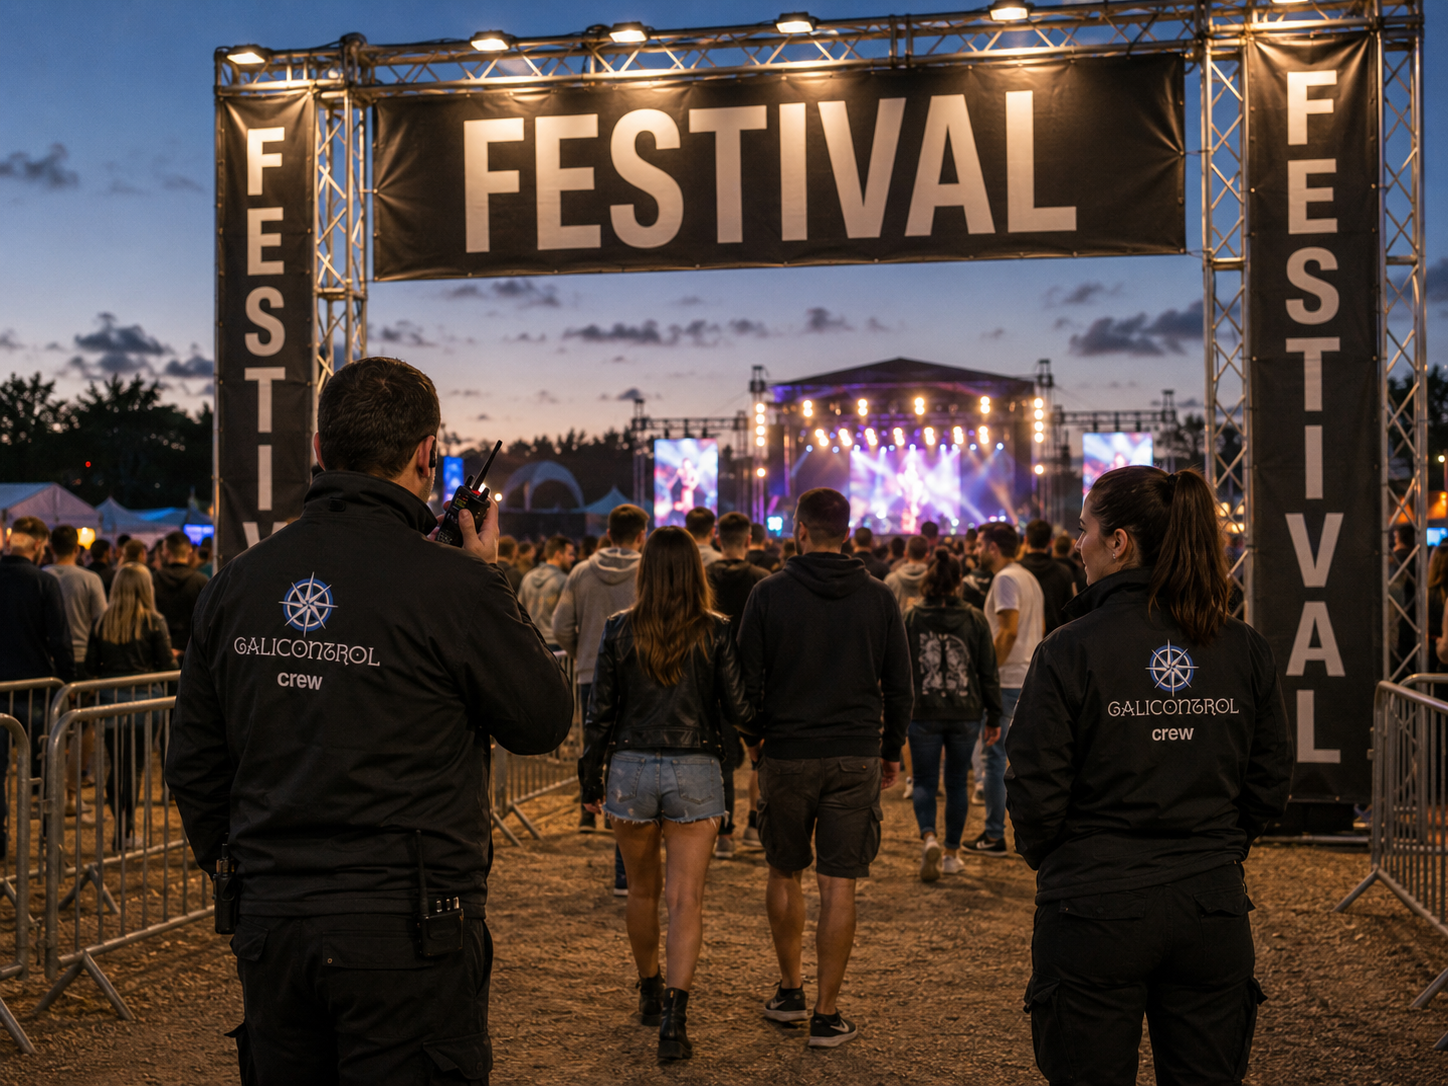
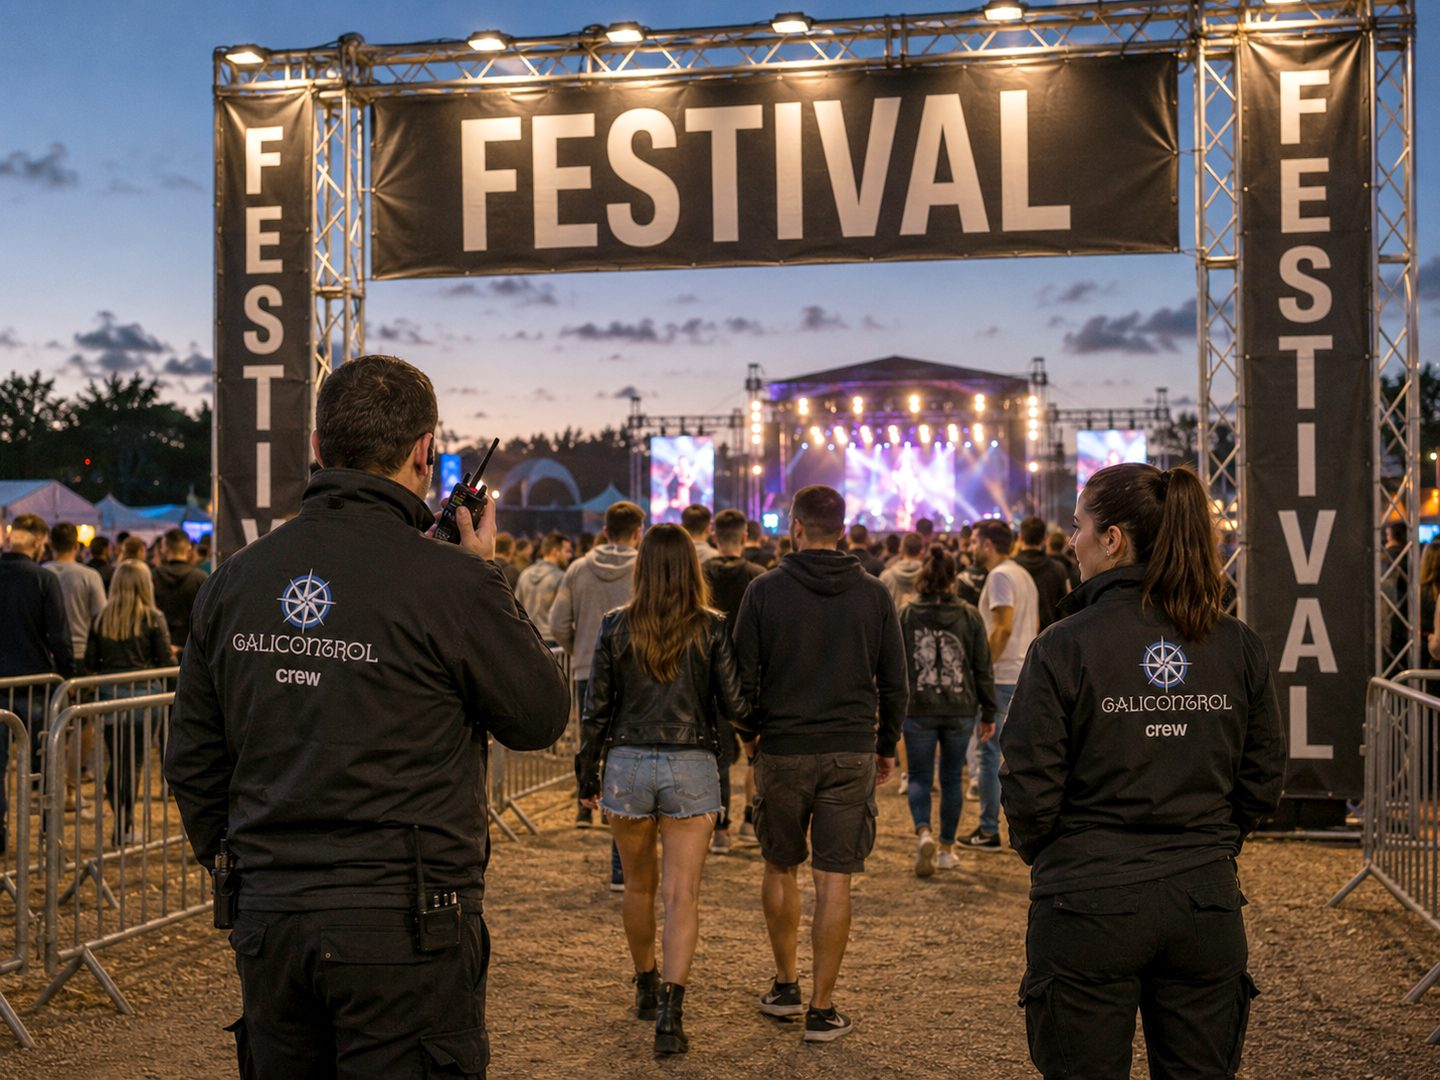
Ajustar las fotografías: recorte del texto quemado, luz y peso
- locales.jpg llevaba el titular «ESTO ES UN SÁBADO POR LA NOCHE» quemado
  dentro de la imagen, compitiendo con el H1 real de la página y sin que
  Google ni un lector de pantalla puedan leerlo. Se recorta la zona del texto
  manteniendo el rótulo del local, la cola, el portero y el cartel de
  admisión.
- Corrección de gamma para levantar sombras sin perder el ambiente nocturno,
  medida sobre la luminancia real de cada archivo: locales de 38 a 85,
  eventos de 68 a 85, home de 70 a 79 y control-accesos de 85 a 92. empresas
  ya estaba bien y se deja como estaba.
- Recompresión de las cinco: la carpeta pasa de 10 MB a 912 KB. Al visitante
  ya no le llegaba el original —Next sirve un AVIF de 19 KB—, así que esto
  solo aligera el repositorio y los despliegues.
- LEEME.md de la carpeta: se añade la advertencia de no subir imágenes con
  texto encima y los criterios de peso y luz.

Claude-Session: https://claude.ai/code/session_01E8BbFr5m9gUPfGNd7GGnMh

diff --git a/public/fotos/LEEME.md b/public/fotos/LEEME.md
@@ -12,11 +12,21 @@ que tocar ninguna línea de código.
 | `locales.jpg` | Página de Locales | Puerta de un pub, sala o discoteca con personal. |
 | `empresas.jpg` | Página de Empresas | Mostrador de recepción o acreditación en un congreso. |
 
+## Ojo: nada de texto dentro de la foto
+
+No subas imágenes con titulares o eslóganes quemados encima. En la web ya hay
+un titular real justo al lado, y quedan dos textos compitiendo. Además, el
+texto de una imagen no lo lee ni Google ni un lector de pantalla.
+
 ## Cómo deben ser
 
 - **Formato:** `.jpg` (o `.webp`). Respeta la extensión de la tabla.
-- **Tamaño:** unos 1600 px de ancho es más que suficiente. Evita fotos de 8 MB
-  salidas del móvil sin comprimir: ralentizan la web.
+- **Tamaño:** 1440-1600 px de ancho es más que suficiente.
+- **Peso:** por debajo de 400 KB. Next.js las reoptimiza al servirlas, así que
+  un archivo pesado no penaliza al visitante, pero sí engorda el repositorio y
+  alarga los despliegues.
+- **Luz:** si es una foto nocturna, comprueba que se distingan las caras y la
+  ropa. Muy oscura no se lee sobre el fondo claro de la web.
 - **Orientación:** horizontal. Los huecos son apaisados (proporción 4:3).
 - **Contenido:** gente trabajando, no posados. Y cuidado con que se reconozcan
   caras de clientes o asistentes sin su permiso.
